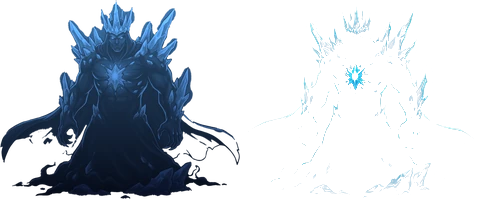
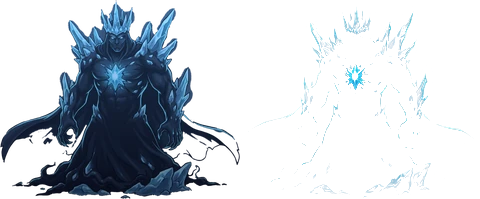
敵と夜の王の影の塗りを弱め、元の絵を4割残す
Claude-Session: https://claude.ai/code/session_01677anwFcz1FcvH76utjYii

diff --git a/docs/worklog/2026-11-24-frozen-lake-king.md b/docs/worklog/2026-11-24-frozen-lake-king.md
@@ -43,3 +43,7 @@
 - この間は保存しないので、本物の保存データは変わらない（設定の変更も保存されない）。
 - 確かめたこと：?strong=1 なしでは今までどおり（開いているステージ 1、元素 4、マナ 40）。ありでは 15 ステージすべて深淵まで開き、元素 291・レシピ 323 を発見済み、悪夢でマナ 99999、localStorage は空のまま。
 - **マージ前に js/strong.js と index.html の読みこみ行を消すこと。**
+
+## 影を弱めて元の絵を残す（2026-11-24 ユーザー「影が強すぎる、もう少し元の画像を残すこと出来る？」）
+- bake.py に MIX（元の絵を残す割合）を足し、影の塗りと元の絵を混ぜるようにした。0%（今）・40%・70%・100% の見本を並べ、ユーザーが **40%** を選んだ。
+- 夜の王 17 枚と、ふつうの敵（PR #47 の絵）もあわせて 40% で塗り直した。鎧の影はゲーム側で系統の色に塗るので変えていない。
